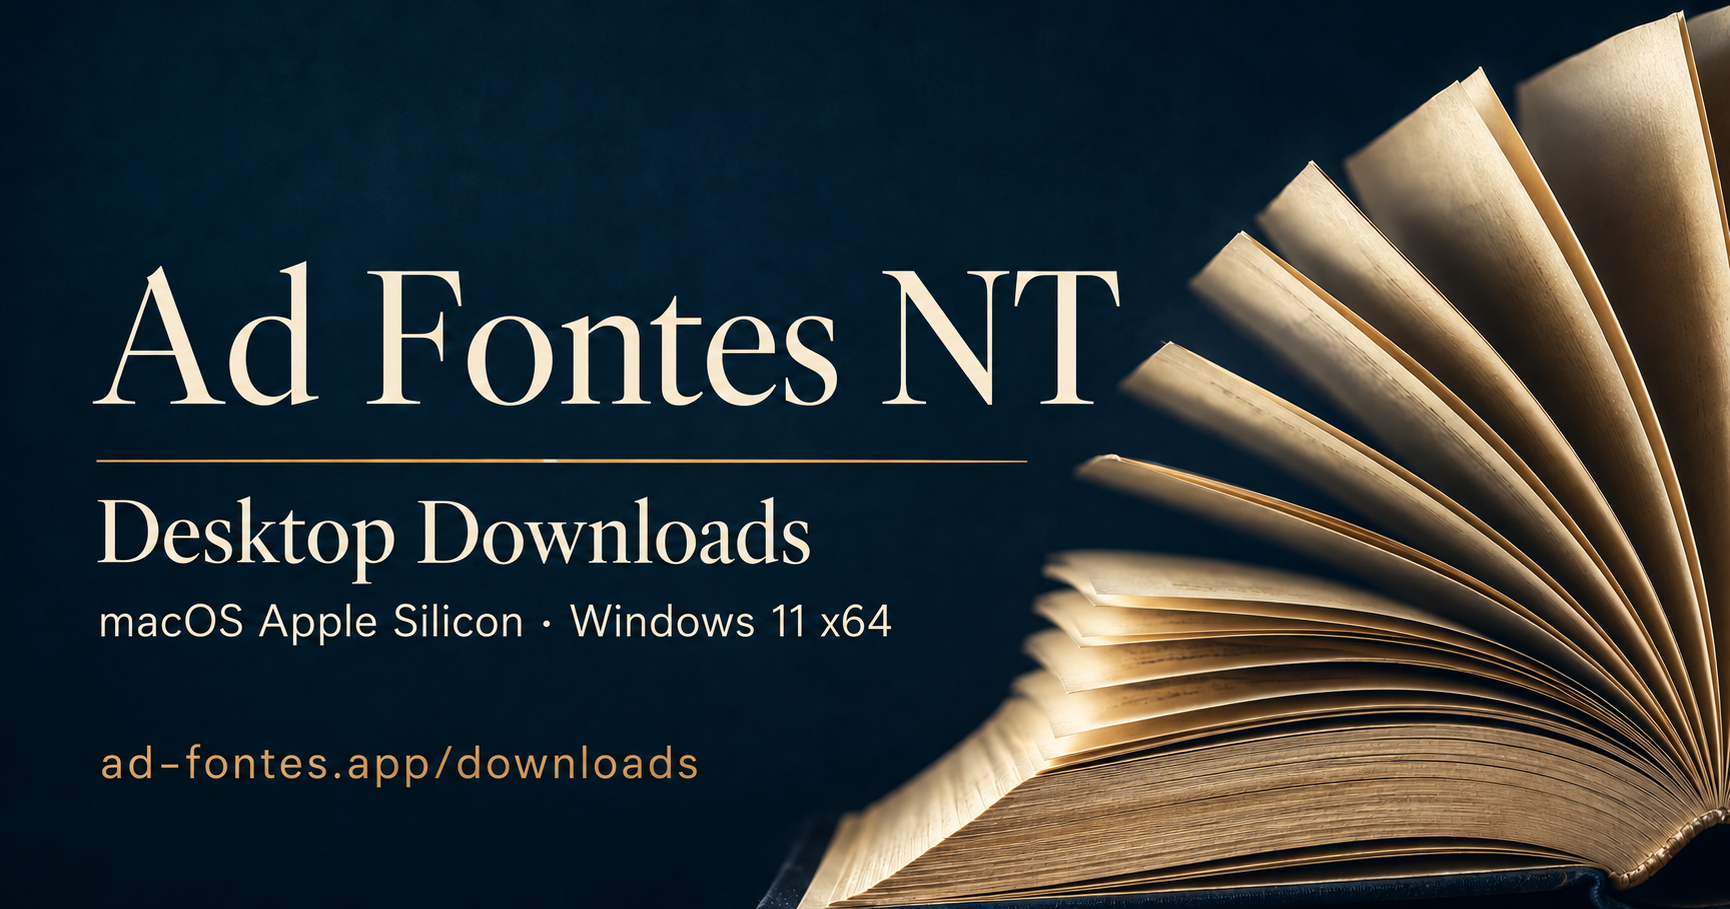
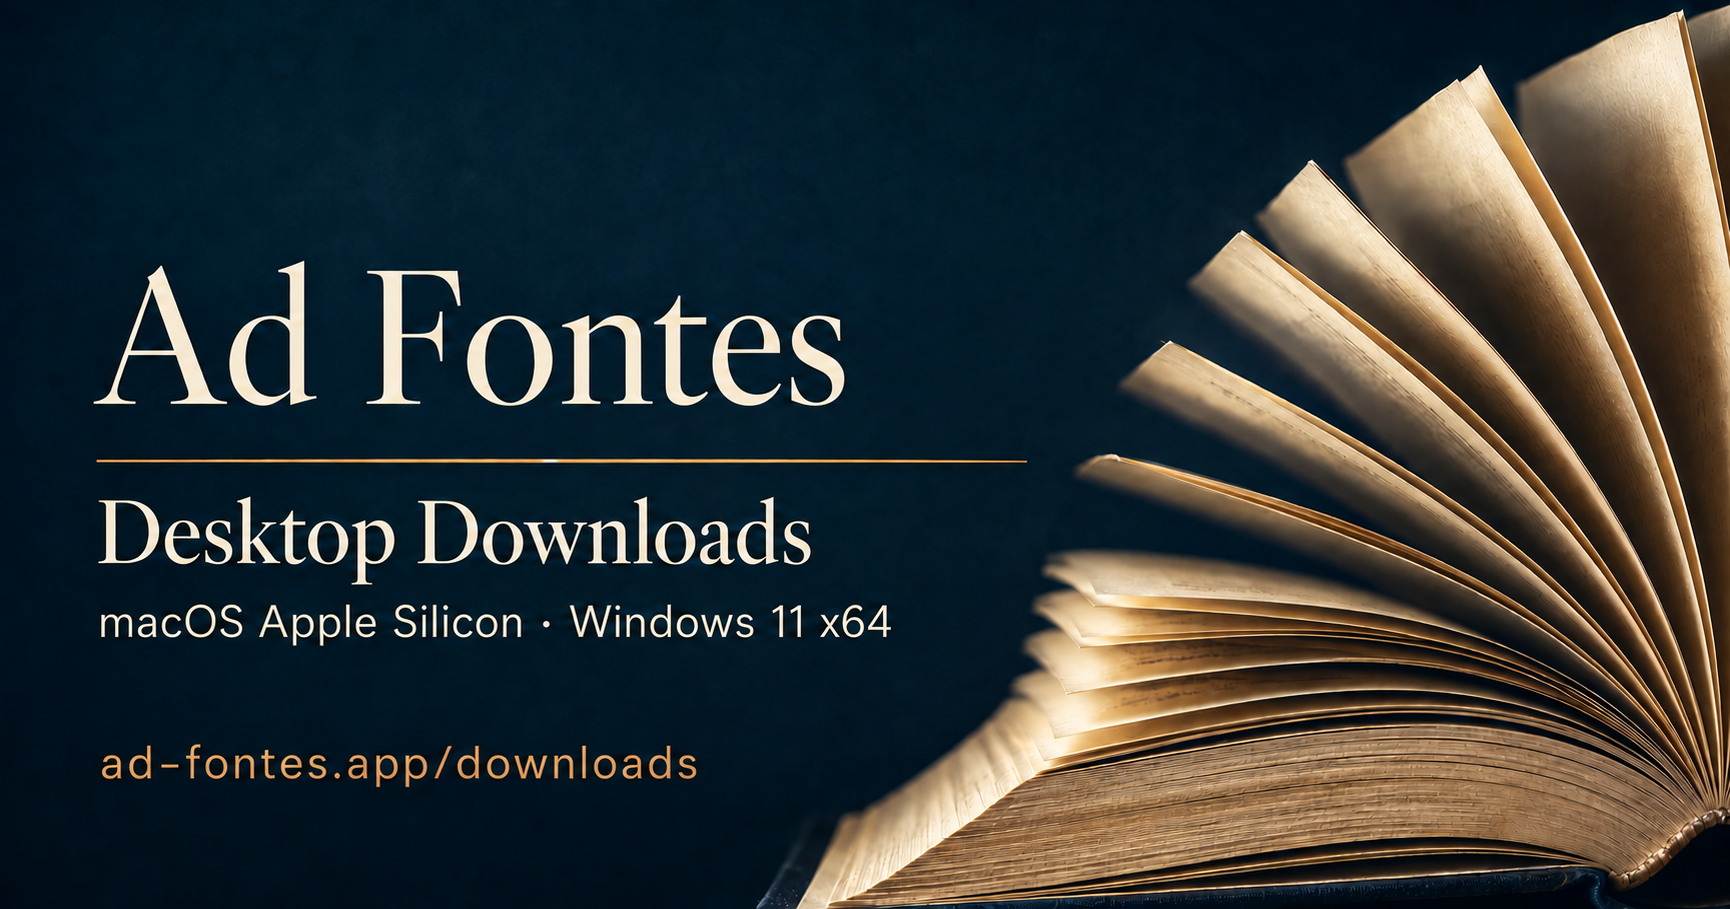
Refresh Ad Fontes social preview cards

diff --git a/app/app/downloads/page.tsx b/app/app/downloads/page.tsx
@@ -1,7 +1,7 @@
 import type { Metadata } from 'next';
 import PublicPage from '../public-page';
 
-const socialImageUrl = 'https://ad-fontes.app/og-downloads.png?v=20260911';
+const socialImageUrl = 'https://ad-fontes.app/og-downloads.png?v=20261008';
 
 export const metadata: Metadata = {
   title: 'Desktop downloads · Ad Fontes',
@@ -17,7 +17,7 @@ export const metadata: Metadata = {
       width: 1730,
       height: 909,
       type: 'image/png',
-      alt: 'Ad Fontes NT Desktop Downloads for macOS Apple Silicon and Windows 11 x64, with an open book on deep navy.',
+      alt: 'Ad Fontes Desktop Downloads for macOS Apple Silicon and Windows 11 x64, with an open book on deep navy.',
     }],
   },
   twitter: {

diff --git a/app/app/page.tsx b/app/app/page.tsx
@@ -1,7 +1,7 @@
 import type { Metadata } from 'next';
 import Reader from './reader';
 
-const socialImageUrl = 'https://ad-fontes.app/og.png?v=20260907';
+const socialImageUrl = 'https://ad-fontes.app/og.png?v=20261008';
 
 export const metadata: Metadata = {
   openGraph: {
@@ -15,7 +15,7 @@ export const metadata: Metadata = {
       width: 1730,
       height: 909,
       type: 'image/png',
-      alt: 'Ad Fontes NT — A New Testament study environment from Ordinary Means. Ivory lettering and an open book on deep navy.',
+      alt: 'Ad Fontes — A biblical study environment from Ordinary Means. Ivory lettering and an open book on deep navy.',
     }],
   },
   twitter: {

diff --git a/docs/OG-Cards-2026-10-08.md b/docs/OG-Cards-2026-10-08.md
@@ -1,0 +1,13 @@
+# Ad Fontes social preview refresh — October 8, 2026
+
+Replaced `app/public/og.png` and `app/public/og-downloads.png` with 1730 × 909 PNGs using the built-in imagegen tool. Both outputs were visually inspected: correct text, no clipping, established navy/ivory palette and open-book imagery retained. Metadata dimensions remain accurate; image URL version is 20261008 for both Open Graph and Twitter. Historical untracked artwork was not changed.
+
+## Final prompts
+
+Main card:
+> Use case: text-localization. Edit this website Open Graph card. Preserve wide approximately 1.9:1 composition, navy background, ivory elegant serif typography, gold rule and existing photographed open book on right. Replace title with exactly "Ad Fontes" (remove NT). Replace subtitle with exactly "A biblical study environment from Ordinary Means." split cleanly across two lines. Keep "ad-fontes.app" at lower left. No other text, logos or version numbers. Retain generous safe margins and large legible title. Deliver one complete landscape card.
+
+Downloads card:
+> Use case: text-localization. Edit this website Downloads Open Graph card. Change only the main title from "Ad Fontes NT" to exactly "Ad Fontes". Preserve wide approximately 1.9:1 composition, navy background, ivory elegant serif typography, gold rule and photographed open book on right. Keep exact remaining text "Desktop Downloads", "macOS Apple Silicon · Windows 11 x64", and "ad-fontes.app/downloads". No extra text, logos or version numbers. Retain generous safe margins. Deliver one complete landscape card.
+
+Four release tests, TypeScript checks and full web build (including shared checks) passed. Publication follows the existing host workflow; no native rebuild or signing changes are required. Existing shared posts may retain platform-cached previews after publication.

diff --git a/PROJECT-STATUS.md b/PROJECT-STATUS.md
@@ -1024,3 +1024,7 @@ AF-OT-020 / 2.1.1 progress: source `889a1db`; all 103 Node / 32 Python / six des
 AF-OT-020 / AFNT-107: corrected Windows workflow `37781402671` succeeded at `cf71fd1` (CI/test-only changes relative to Mac source `889a1db`). Existing-install upgrade, retained data/location, shortcut rename, repeated update, uninstall and fresh installation all passed. Downloaded Windows bytes and updater signature independently verified; Mac verification above remains valid. Coordinated 2.1.1 publication pins and four release tests passed. Final private staging verification and Larry’s sudo handoff remain; live is still 2.1.0.
 
 2.1.1 publication ready: both host-staged updater payloads and public Mac DMG match verified hashes; manifest contains Mac/Windows 2.1.1. Host tracked checkout is clean and immutable release destinations are unused. Prepared web/download metadata, signed installers and updater manifest await Larry’s source-guarded sudo command; production remains 2.1.0 until that handoff. Independent live verification follows.
+
+October 8 · AF-OT-020 / AFNT-107 social preview follow-up: replaced main and Downloads OG cards with Ad Fontes branding, preserving the navy/ivory/open-book design. Main card uses the exact approved biblical-study subtitle. Open Graph/Twitter image URLs use cache version 20261008; alt text matches new artwork. Built-in imagegen used for text replacement; no native binaries/signing changes. Web publication pending host handoff.
+
+OG follow-up validation: image text/layout and 1730×909 metadata verified; four release tests, typecheck and full web build passed. Host is clean at 6ba9323 and stable desktop manifest reports 2.1.1; only the website needs this follow-up deployment.
